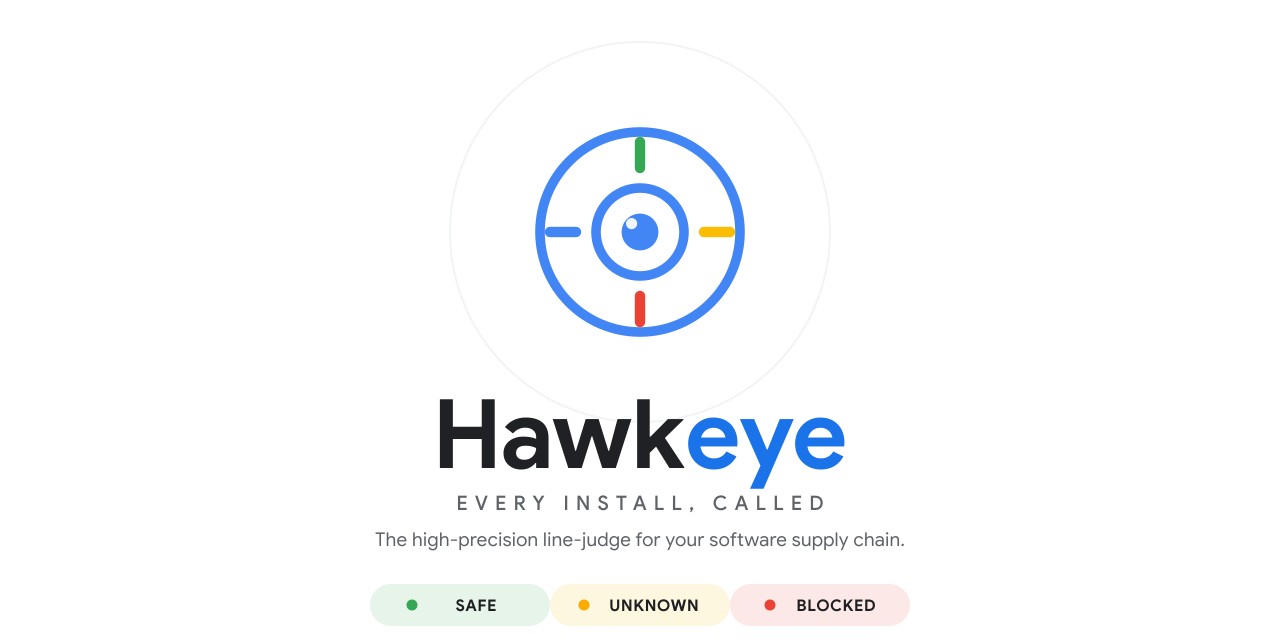
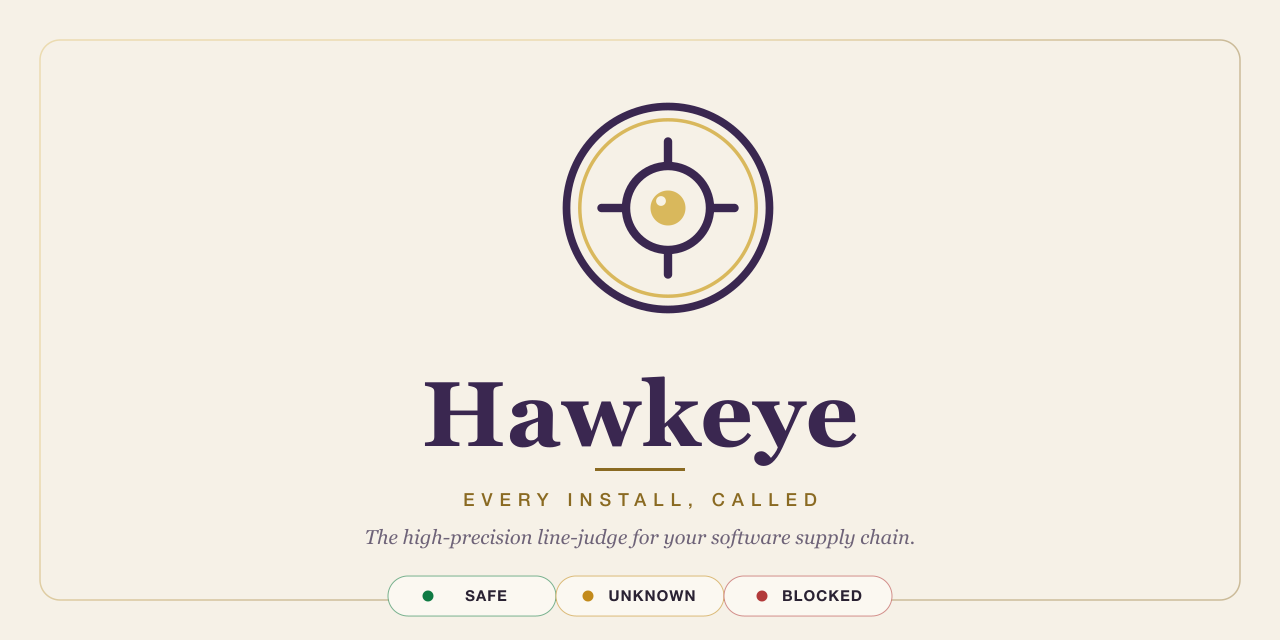
design: rebrand to "Centre Court" heritage identity (#71)
Replaces the previous palette with a heritage, Wimbledon-grade system rooted in
the project's philosophy ("the indisputable call" / fail-closed authority):

- Mark: a medallion seal (ink aubergine + gold inlay) enclosing the reticle-eye,
  with a gold pupil as "the call".
- Palette: aubergine #3A2750 + championship gold #B0892F + warm paper #F6F1E7.
  The brand hue is deliberately neutral so the verdict colours keep their meaning.
- Serif logotype (Georgia); verdict chips tuned to heritage tones (status-only).
- Refreshed mark, crest tile, light/dark lockups, banner, social card (SVG + PNG)
  and rewrote BRAND.md.

diff --git a/BRAND.md b/BRAND.md
@@ -4,10 +4,12 @@
 
 # Hawkeye — Brand Guideline
 
-The visual identity system for Hawkeye. Built in the Google / Material design
-language: light surfaces, generous whitespace, a confident blue primary, and the
-four Google accent colours used with intent. Everything ships as scalable SVG so
-it stays crisp from a 16&nbsp;px favicon to a conference banner.
+The visual identity system for Hawkeye. The direction is **"Centre Court"** —
+heritage, precision, and quiet authority, in the spirit of the great officiating
+traditions of tennis. A medallion seal stands for *an indisputable call*; deep
+aubergine, championship gold, and warm paper give it class without noise.
+Everything ships as scalable SVG so it stays crisp from a 16&nbsp;px favicon to a
+conference banner.
 
 ---
 
@@ -18,73 +20,71 @@ it stays crisp from a 16&nbsp;px favicon to a conference banner.
 | **Name** | **Hawkeye** — after the Hawk-Eye officiating system that delivers indisputable, millimetre-accurate in/out calls. |
 | **One-liner** | The high-precision line-judge for your software supply chain. |
 | **Tagline** | *Every install, called.* |
-| **Personality** | Authoritative, precise, fast, calm. Clean and friendly, never alarmist or noisy. |
-| **What the logo says** | A targeting **reticle** fused with a **watchful eye** — constant watch + a precise verdict on every package. The four cardinal ticks carry the four Google colours, nodding from *watch* to *verdict*. |
+| **Personality** | Authoritative, precise, composed, heritage-grade. Confident and calm — never loud, never alarmist. |
+| **What the logo says** | A **medallion seal** (the authority of a final, indisputable verdict) around a **watchful reticle-eye** (precision + constant watch), with a single gold **focal point** — *the call*. The seal is also our answer to *fail-closed*: authority you can trust to withhold approval. |
 
 ---
 
 ## 2. Logo
 
 ### The mark
-A line-call **reticle** (ring + four cardinal ticks) wrapping an **iris and pupil**.
-It reads as both *a scope taking aim* and *an eye that never blinks*. The ring,
-iris and pupil are Google Blue; the four ticks are blue / red / yellow / green.
+A double-ring **medallion** — ink aubergine with a fine gold inlay — enclosing a
+**reticle-eye**: four cardinal ticks, an iris, and a gold pupil that is *the call*.
+It reads as an official seal and a watchful eye at once.
 
 ### Assets
 
 | File | Use |
 |---|---|
-| [`assets/logo-mark.svg`](assets/logo-mark.svg) | Icon only, transparent background. App icons, inline marks, favicon source. |
-| [`assets/logo-tile.svg`](assets/logo-tile.svg) | Mark on a white Material tile. Avatars, GitHub org icon. |
+| [`assets/logo-mark.svg`](assets/logo-mark.svg) | Medallion mark, transparent — for **light** backgrounds; favicon source. |
+| [`assets/logo-tile.svg`](assets/logo-tile.svg) | Crest tile (cream + gold medallion on aubergine). Avatars, GitHub org icon, dark backgrounds. |
 | [`assets/logo-horizontal-dark.svg`](assets/logo-horizontal-dark.svg) | Horizontal lockup for **dark** backgrounds. |
 | [`assets/logo-horizontal-light.svg`](assets/logo-horizontal-light.svg) | Horizontal lockup for **light** backgrounds. |
 | [`assets/banner.svg`](assets/banner.svg) | README / docs hero (1280×320). |
 | [`assets/social-preview.svg`](assets/social-preview.svg) · [`.png`](assets/social-preview.png) | GitHub social preview / Open Graph card (1280×640). Upload the PNG in **Settings → Social preview**. |
 
 ### Clearspace & minimum size
-- **Clearspace:** keep free space of at least one reticle-tick length on every side of the mark and the full lockup.
-- **Minimum size:** mark ≥ 24&nbsp;px; horizontal lockup ≥ 120&nbsp;px wide. Below that, prefer the mark alone.
+- **Clearspace:** keep free space of at least one reticle-tick length around the medallion and the full lockup.
+- **Minimum size:** medallion ≥ 28&nbsp;px (below this the gold inlay is decorative — the mark still reads); horizontal lockup ≥ 140&nbsp;px wide.
+- On dark surfaces use the **crest tile** or the cream medallion (`logo-horizontal-dark`), never the aubergine mark on dark.
 
 ### Don't
-- ❌ Recolour the mark's ring/iris outside Google Blue, or restyle the four tick colours.
-- ❌ Stretch, skew, rotate, or add heavy drop shadows / glows.
-- ❌ Put the blue mark on a saturated or low-contrast background; use the white tile.
-- ❌ Re-letter the wordmark in another typeface, or set "eye" in a non-blue colour.
+- ❌ Recolour the medallion or set the pupil in anything but gold.
+- ❌ Swap the serif wordmark for a sans, or stretch / skew / rotate the mark.
+- ❌ Add glows or heavy shadows — the texture is paper and gold, not neon.
+- ❌ Use the verdict colours (green / amber / red) anywhere in the logo.
 
 ---
 
 ## 3. Colour
 
-Light, Material, blue-led. The four Google colours appear in the mark; the
-traffic-light verdict colours are **reserved for status** and never used as decoration.
+Heritage and composed: **aubergine led, gold accent, warm paper ground.** The brand
+hue is deliberately *not* a status colour, so the traffic-light verdict palette
+keeps its meaning. Green / amber / red are **reserved for status** — never decoration.
 
 ### Core
 
 | Token | Hex | Role |
 |---|---|---|
-| `--blue` | `#1A73E8` | Primary — the mark, links, CTAs, "eye" |
-| `--blue-bright` | `#4285F4` | Gradient highlight, blue tick |
-| `--blue-on-dark` | `#8AB4F8` | Primary on dark surfaces |
-| `--ink` | `#202124` | Headings & wordmark on light |
-| `--grey` | `#5F6368` | Secondary / muted text |
-| `--surface` | `#FFFFFF` | Primary background |
-| `--surface-alt` | `#F8F9FA` | Panels, cards |
-| `--border` | `#DADCE0` | Tile / control borders |
-| `--hairline` | `#E8EAED` | Dividers |
-| `--paper` | `#E8EAED` | Headings & wordmark on dark |
-
-The mark's iris uses a blue gradient: `#4285F4 → #1A73E8`.
+| `--aubergine` | `#3A2750` | Primary — mark, wordmark, headings on light |
+| `--aubergine-deep` | `#2E2042` | Dark surfaces, crest tile |
+| `--gold` | `#B0892F` | Accent — inlay, pupil, rules (gradient `#D9B85C → #B0892F → #8A6A22`) |
+| `--gold-bright` | `#E7C977` | Gold on dark surfaces |
+| `--paper` | `#F6F1E7` | Primary light background |
+| `--ivory` | `#FBF8F1` | Cards, chips |
+| `--cream` | `#F3ECDD` | Mark / wordmark on dark |
+| `--ink` | `#2A2233` | Body text on light |
+| `--muted` | `#6E6378` | Secondary / italic text |
 
 ### Verdict signal system (status only)
 
-| Verdict | Dot | Chip fill | Meaning |
-|---|---|---|---|
-| 🟢 **SAFE** | `#34A853` | `#E6F4EA` | Cleared — exit 0 |
-| 🟡 **UNKNOWN** | `#F9AB00` | `#FEF7E0` | Could not verify — fail closed, exit 2 |
-| 🔴 **BLOCKED** | `#EA4335` | `#FCE8E6` | Out of bounds — exit 1 |
+Tuned to heritage tones so they sit on paper without shouting.
 
-> These are Google's standard status colours and light tints, so the verdict chips
-> read instantly to anyone fluent in Material.
+| Verdict | Hex | Meaning |
+|---|---|---|
+| 🟢 **SAFE** | `#0F7A43` | Cleared — exit 0 |
+| 🟡 **UNKNOWN** | `#C28A1B` | Could not verify — fail closed, exit 2 |
+| 🔴 **BLOCKED** | `#B23A3A` | Out of bounds — exit 1 |
 
 ---
 
@@ -92,13 +92,13 @@ The mark's iris uses a blue gradient: `#4285F4 → #1A73E8`.
 
 | Role | Typeface | Treatment |
 |---|---|---|
-| Wordmark / display | **Google Sans** / Product Sans (fallback: Roboto → system-ui) | 700 weight, sentence case "Hawkeye". "Hawk" in ink, "eye" in blue. |
-| Headings & UI | Google Sans / Roboto / system-ui | 500–700 |
-| Body | Roboto / system-ui stack | 400 |
-| Labels / chips | system stack, UPPERCASE | 600, light letter-spacing |
+| Wordmark / display | **Serif** — Georgia (fallback: Times New Roman → serif) | 700 weight, sentence case "Hawkeye". The heritage voice. |
+| Tagline / labels | Sans — Helvetica Neue / Arial / system-ui | 600, UPPERCASE, generous tracking. |
+| Descriptor | Serif *italic* — Georgia | The line under the wordmark; quietly editorial. |
+| Body & UI | system-ui / Helvetica stack | 400–600 |
 
-SVG assets reference a font stack rather than embedding a font, so they render with
-Google Sans where present and degrade gracefully to Roboto / system-ui.
+SVG assets reference a font stack rather than embedding a font, so the serif
+logotype renders with Georgia where present and degrades gracefully.
 
 ---
 
